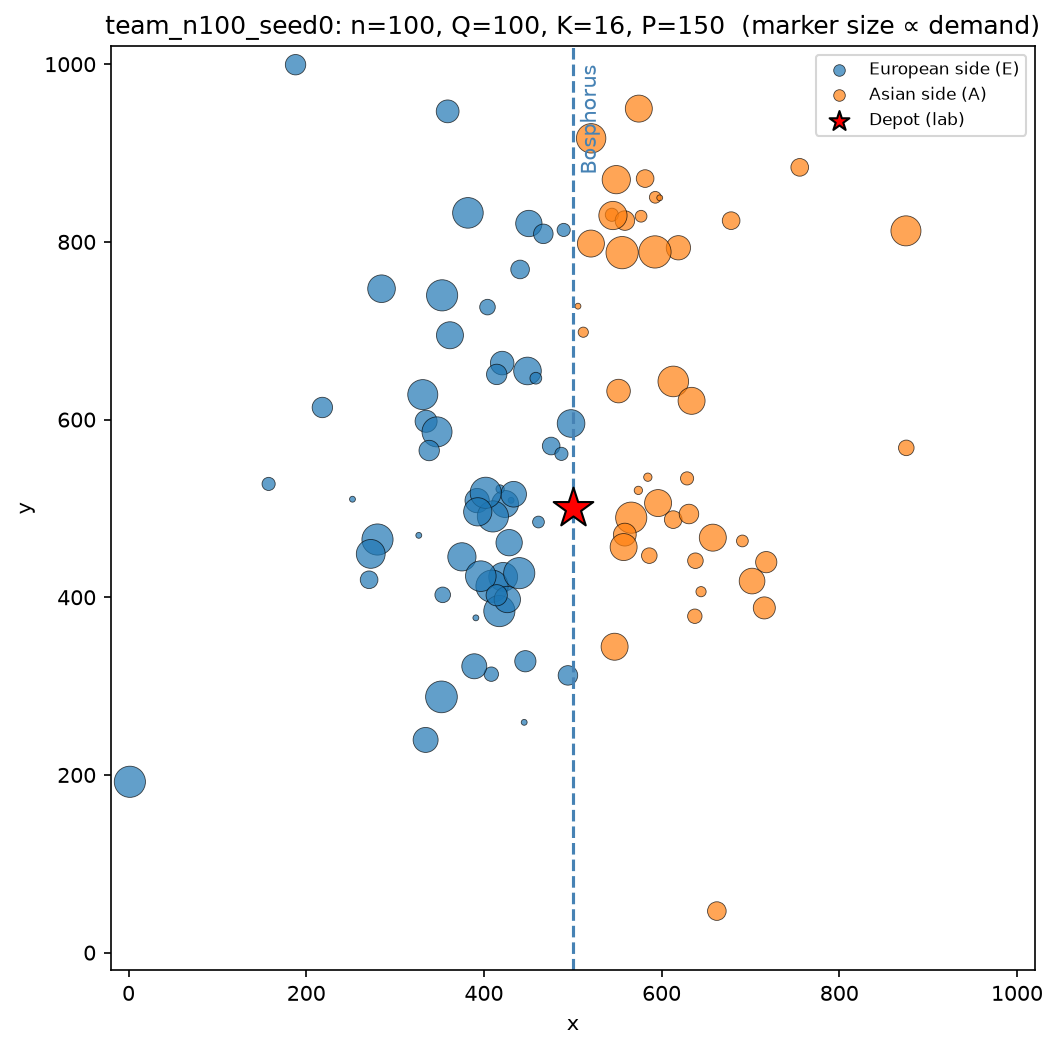
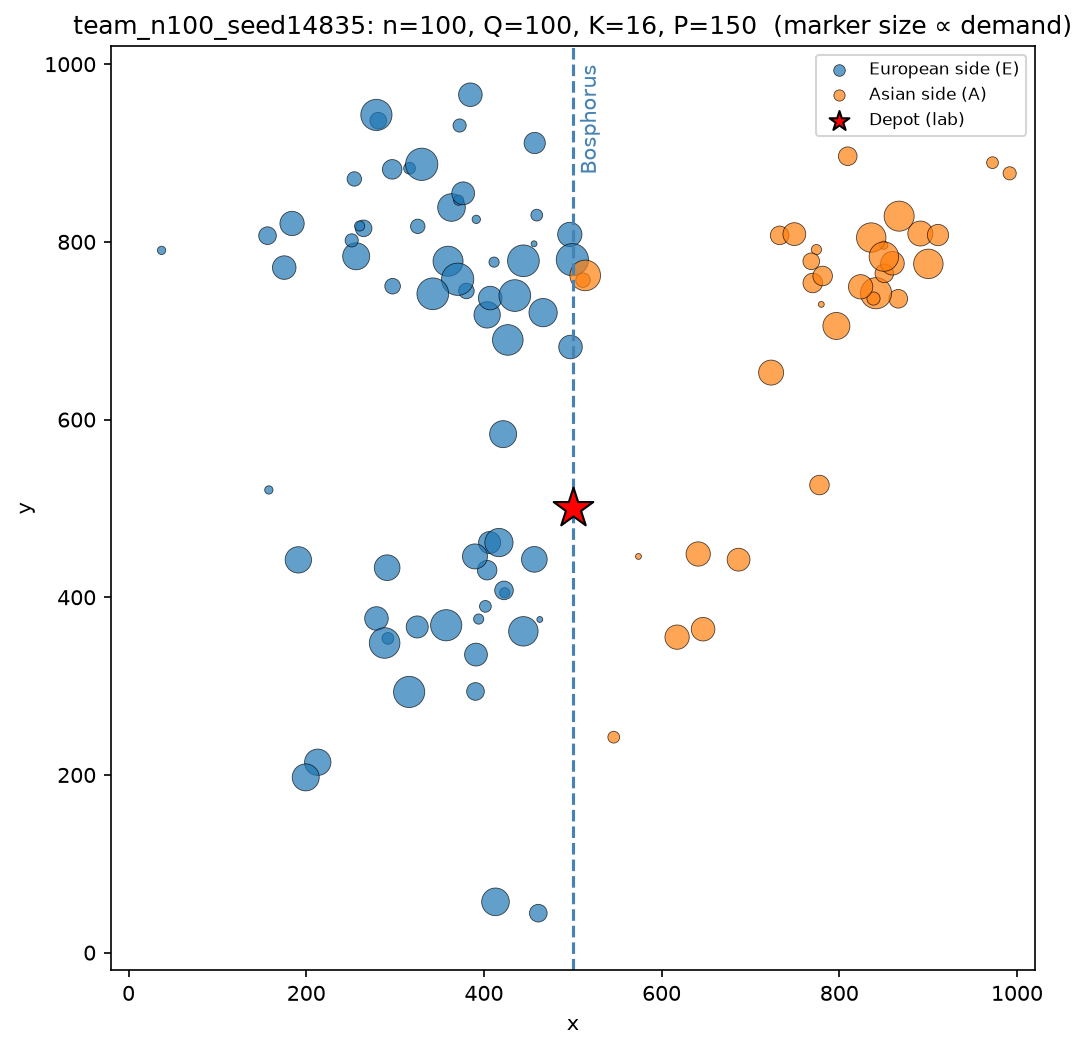
Set team seed 14835

diff --git a/src/cvrp/plot_instance.py b/src/cvrp/plot_instance.py
@@ -1,7 +1,7 @@
 # Original code (CMP 3005 term project).
 """Step 1 / Milestone 1: plot an instance (designed for the team instance).
 
-    python -m cvrp.plot_instance data/team/team_n100_seed0.vrp [--out results/figures/team_instance.png]
+    python -m cvrp.plot_instance data/team/team_n100_seed14835.vrp [--out results/figures/team_instance.png]
 
 Customers coloured by side, depot marked, the line x = SPLIT_X labelled
 "Bosphorus", marker size proportional to demand.

diff --git a/src/cvrp/generator.py b/src/cvrp/generator.py
@@ -25,8 +25,8 @@ DEPOT_XY = (500.0, 500.0)   # depot at the centre of the square
 RANDOM_SHARE = 0.20         # about 20% of customers are uniform over the square
 TINY_SIZES = (7, 8, 9)
 
-# TODO: replace 0 by the real seed = sum of the last four digits of all team members' student IDs.
-DEFAULT_SEED = 0
+# Team seed: sum of the last four digits of the three members' IDs, see report.
+DEFAULT_SEED = 14835
 
 
 def ffd_bin_count(demands: list[int], Q: int) -> int:

diff --git a/experiments/config.py b/experiments/config.py
@@ -25,8 +25,8 @@ ROOT = Path(__file__).resolve().parents[1]
 BASE_SEED = 20260
 DEFAULT_RUNS = 10
 
-# TODO: replace 0 by the real team seed = sum of the last four digits of all team members' student IDs.
-TEAM_SEED_DEFAULT = 0
+# Team seed: sum of the last four digits of the three members' IDs, see report.
+TEAM_SEED_DEFAULT = 14835
 
 # Wall-clock budget per run in seconds (equal for all algorithms on an instance).
 BUDGETS = {

diff --git a/README.md b/README.md
@@ -12,13 +12,11 @@ implements, analyzes and evaluates a constructive baseline and two metaheuristic
 
 ## Team
 
-| Name | Student ID (last 4 digits) | Main responsibility |
-|---|---|---|
-| Mohammad (Moore) Hawwari | _TBD_ | _TBD_ |
-| _TBD_ | _TBD_ | _TBD_ |
-| _TBD_ | _TBD_ | _TBD_ |
+- Joohyun Lee
+- Ahmet Emre Cinel
+- Mohammad Ammar Hawwari
 
-Team-instance seed = sum of the last four digits of all members' student IDs (see the report).
+Team-instance seed = **14835**, the sum of the last four digits of the three members' IDs (see the report).
 
 ## What it does
 
@@ -82,11 +80,12 @@ foreach ($name in $ids.Keys) {
 }
 ```
 
-**Team instance.** Writes `data/team/team_n100_seed<N>.vrp`. The current seed is the placeholder 0. The real seed is
-the sum of the last four digits of all team members' student IDs.
+**Team instance.** Writes `data/team/team_n100_seed<N>.vrp`. The team seed is 14835 (the default), the sum of the
+last four digits of the three members' IDs. The old placeholder file `team_n100_seed0.vrp` is kept for the tests and
+the Step 3/5 benchmarks.
 
 ```powershell
-python -m cvrp.generator --seed 0
+python -m cvrp.generator --seed 14835
 ```
 
 **Tiny instances and their exact optima.** Writes `data/tiny/tiny_n{7,8,9}.vrp` and `.opt.json`. The generator
@@ -108,7 +107,7 @@ python -m cvrp.summary
 ```
 
 ```powershell
-python -m cvrp.plot_instance data/team/team_n100_seed0.vrp
+python -m cvrp.plot_instance data/team/team_n100_seed14835.vrp --out results/figures/team_instance.png
 ```
 
 **Clarke–Wright baseline.** Prints the cost, number of routes vs K, gap to the BKS, runtime, the checker verdict

diff --git a/docs/step1_notes.md b/docs/step1_notes.md
@@ -102,7 +102,10 @@ The brute-force test enumerates all n! permutations × 2ⁿ⁻¹ cut patterns an
 - **FFD check.** If First-Fit-Decreasing needs more than K bins, the generator prints a WARNING and does not fix it.
   For seed 0: FFD = 15 bins ≤ K = 16.
 
-## Current team instance (placeholder seed 0)
-`data/team/team_n100_seed0.vrp`: Σq = 1496, K = 16, 57 vertices on side E and 44 on side A (including the depot).
-Plot: `results/figures/team_instance.png`. **TODO:** regenerate with the real seed (sum of the last four digits of
-all student IDs).
+## Team instance (seed 14835)
+The team seed is 14835, the sum of the last four digits of the three members' IDs (see the report).
+`data/team/team_n100_seed14835.vrp`: Σq = 1421, K = 16, FFD = 15 bins ≤ K, 66 vertices on side E and 35 on side A
+(including the depot). Plot: `results/figures/team_instance.png`. Clarke–Wright: 16599.05 with 15 routes, feasible.
+
+The earlier placeholder `data/team/team_n100_seed0.vrp` (Σq = 1496, K = 16, 57 E / 44 A) is kept: the generator
+tests and the Step 3/5 benchmark tables use it.

diff --git a/docs/step6a_notes.md b/docs/step6a_notes.md
@@ -28,7 +28,7 @@ The default selection is `--algos ga,tabu`.
   and trying raises ValueError.
 - The exact parameters of each run are stored in its `params_json` column.
 
-**Team instance.** `--team-seed S`, default 0, with a TODO for the real seed. The file
+**Team instance.** `--team-seed S`, default 14835 (the team seed, see the report). The file
 `data/team/team_n100_seed{S}.vrp` is generated if it is missing.
 
 ## File formats (`--out`, default `results/raw`)
